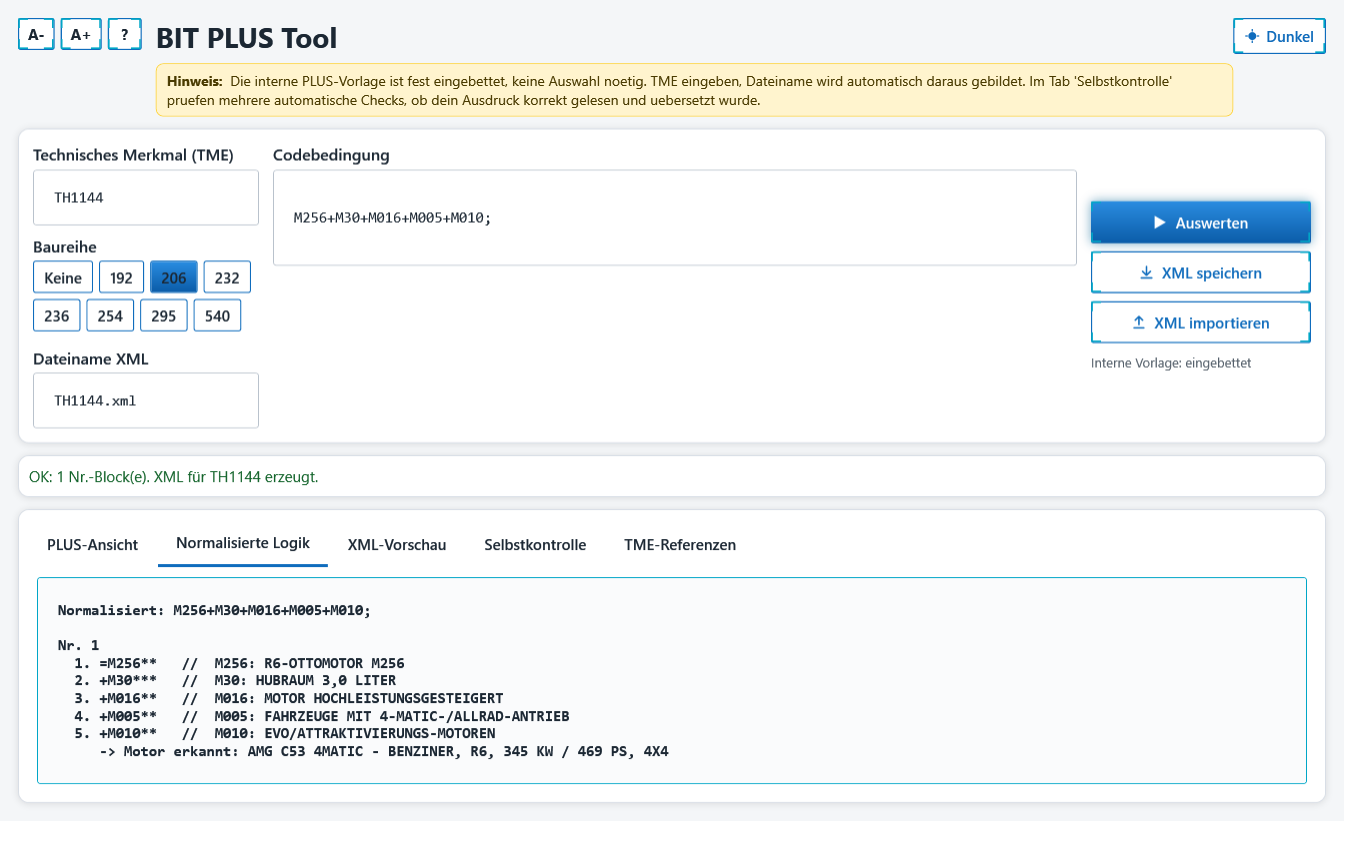
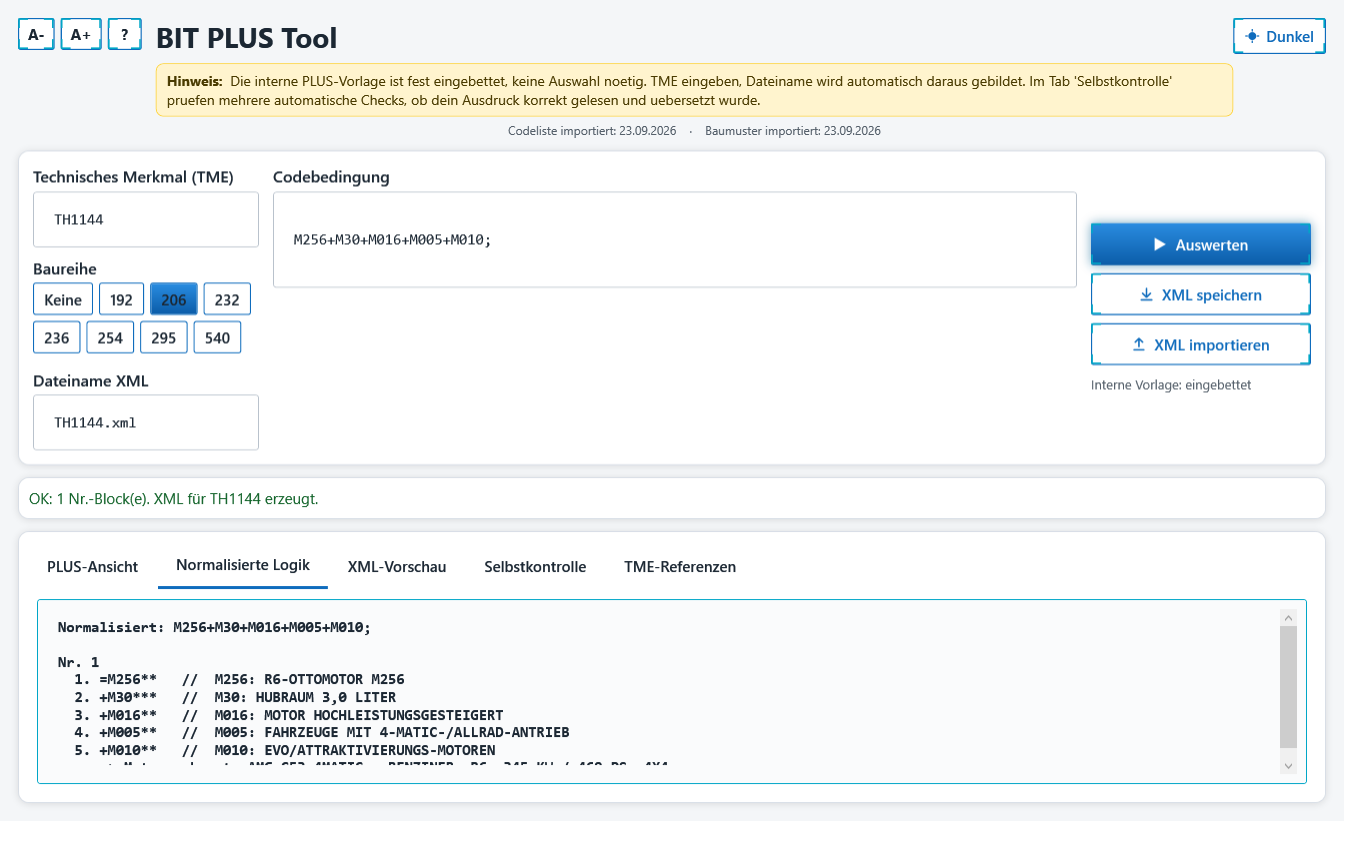
Update BitPlusTool v2026.923.1334.0

diff --git a/BitPlusTool/MainWindow.xaml b/BitPlusTool/MainWindow.xaml
@@ -41,6 +41,7 @@
                         <Run Text="Die interne PLUS-Vorlage ist fest eingebettet, keine Auswahl noetig. TME eingeben, Dateiname wird automatisch daraus gebildet. Im Tab 'Selbstkontrolle' pruefen mehrere automatische Checks, ob dein Ausdruck korrekt gelesen und uebersetzt wurde."/>
                     </TextBlock>
                 </Border>
+                <TextBlock x:Name="DataStandText" HorizontalAlignment="Center" Foreground="{DynamicResource TextMutedBrush}" FontSize="12" Margin="0,6,0,0"/>
             </StackPanel>
             <Button x:Name="ThemeToggleButton" Grid.Column="2" Style="{StaticResource ThemeToggleButton}"
                     VerticalAlignment="Top" Click="ThemeToggleButton_Click">

diff --git a/BitPlusTool/MainWindow.xaml.cs b/BitPlusTool/MainWindow.xaml.cs
@@ -1,4 +1,6 @@
 using System.IO;
+using System.Linq;
+using System.Reflection;
 using System.Text;
 using System.Windows;
 using System.Windows.Controls;
@@ -35,8 +37,29 @@ public partial class MainWindow : Window
         InitializeComponent();
         var version = System.Reflection.Assembly.GetExecutingAssembly().GetName().Version;
         Title += $" (V. {version})";
-        _ = CodeCatalog.RefreshIfStaleAsync(); // Codeliste im Hintergrund aktualisieren, blockiert den Start nicht.
+        UpdateDataStandText();
+        _ = RefreshCodeCatalogAsync();
         Loaded += (_, _) => { _baseWidth = Width; _baseHeight = Height; Run(); };
+    }
+
+    private static string? AssemblyMeta(string key)
+        => Assembly.GetExecutingAssembly()
+            .GetCustomAttributes<AssemblyMetadataAttribute>()
+            .FirstOrDefault(a => a.Key == key)?.Value;
+
+    /// <summary>Zeigt an, wann die Codeliste (live oder eingebetteter Fallback) und die Baumuster-/
+    /// Motorenliste (immer eingebettet) zuletzt aktualisiert wurden.</summary>
+    private void UpdateDataStandText()
+    {
+        var codelisteStand = CodeCatalog.LiveCacheDate?.ToString("dd.MM.yyyy") ?? AssemblyMeta("CodelisteStand") ?? "unbekannt";
+        var baumusterStand = AssemblyMeta("BaumusterStand") ?? "unbekannt";
+        DataStandText.Text = $"Codeliste importiert: {codelisteStand}    ·    Baumuster importiert: {baumusterStand}";
+    }
+
+    private async Task RefreshCodeCatalogAsync()
+    {
+        await CodeCatalog.RefreshIfStaleAsync(); // Codeliste im Hintergrund aktualisieren, blockiert den Start nicht.
+        Dispatcher.Invoke(UpdateDataStandText);
     }
 
     private void ThemeToggleButton_Click(object sender, RoutedEventArgs e)

diff --git a/BitPlusTool/Services/CodeCatalog.cs b/BitPlusTool/Services/CodeCatalog.cs
@@ -25,6 +25,10 @@ public static class CodeCatalog
     public static CodeEntry? TryGet(string code)
         => Entries.TryGetValue(code.Trim().ToUpperInvariant(), out var e) ? e : null;
 
+    /// <summary>Datum des zuletzt erfolgreich abgerufenen Live-Caches, falls vorhanden (sonst null - dann
+    /// gilt der eingebettete Fallback-Stand aus AssemblyMetadata "CodelisteStand").</summary>
+    public static DateTime? LiveCacheDate => File.Exists(CacheFile) ? File.GetLastWriteTime(CacheFile) : null;
+
     /// <summary>
     /// Beim Programmstart aufrufen (fire-and-forget, blockiert die UI nicht): aktualisiert den lokalen
     /// Codeliste-Cache aus der Live-Codetabelle Werk 067, wenn er fehlt oder aelter als 30 Tage ist -
